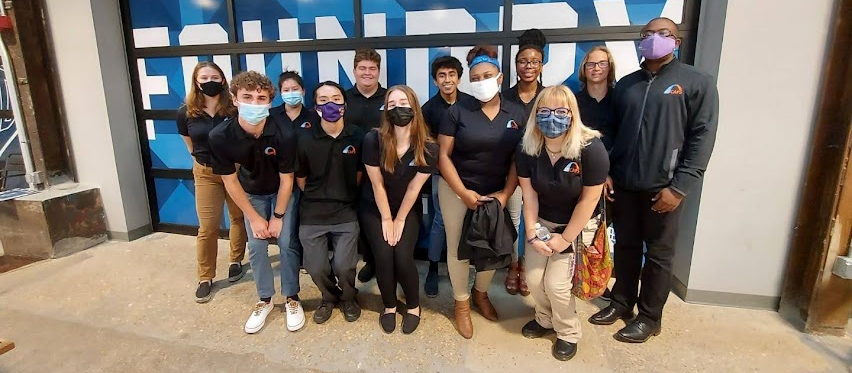
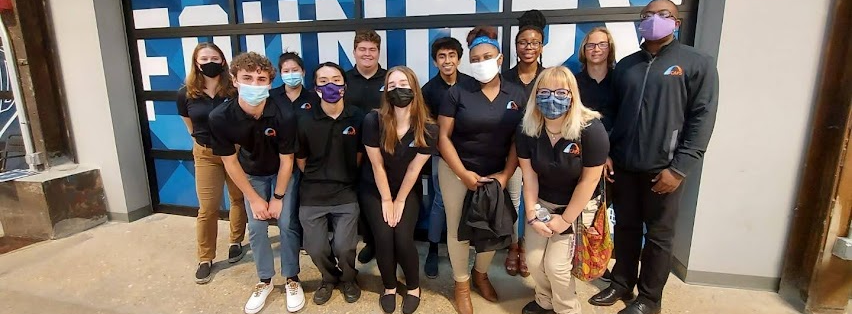
added css and set up hero image

diff --git a/css-files/future.css b/css-files/future.css
@@ -1,5 +1,19 @@
 #future-hero {
-    width: auto;
+    width: 100%;
+    filter:blur(3px)
+}
+
+#future-title {
+    position: absolute;
+    top: 60%;
+    margin-left: 40px;
+    background-color: #F0B4FF;
+    width: 270px;
+    box-shadow: 5px 5px 20px rgb(0 0 0 / 60%);
+    border: 1px solid;
+    font-size: 50px;
+    opacity:0.8;
+    padding-left: 25px;
 }
 
 .future-section, .future-colleges{

diff --git a/future.html b/future.html
@@ -22,9 +22,9 @@
         </nav>
     </section>
 
-    <section class="future-section"> 
+    <section> 
         <img id="future-hero" src="media/future-hero.png">
-        <h1>
+        <h1 id="future-title">
             My Future
         </h1>
 

diff --git a/css-files/hobbies.css b/css-files/hobbies.css
@@ -8,7 +8,6 @@
     margin-bottom: 0;
 }
 
-
 .hobbies-hero-section {
     background-color: #E9E5F5;
     width: 100%;
